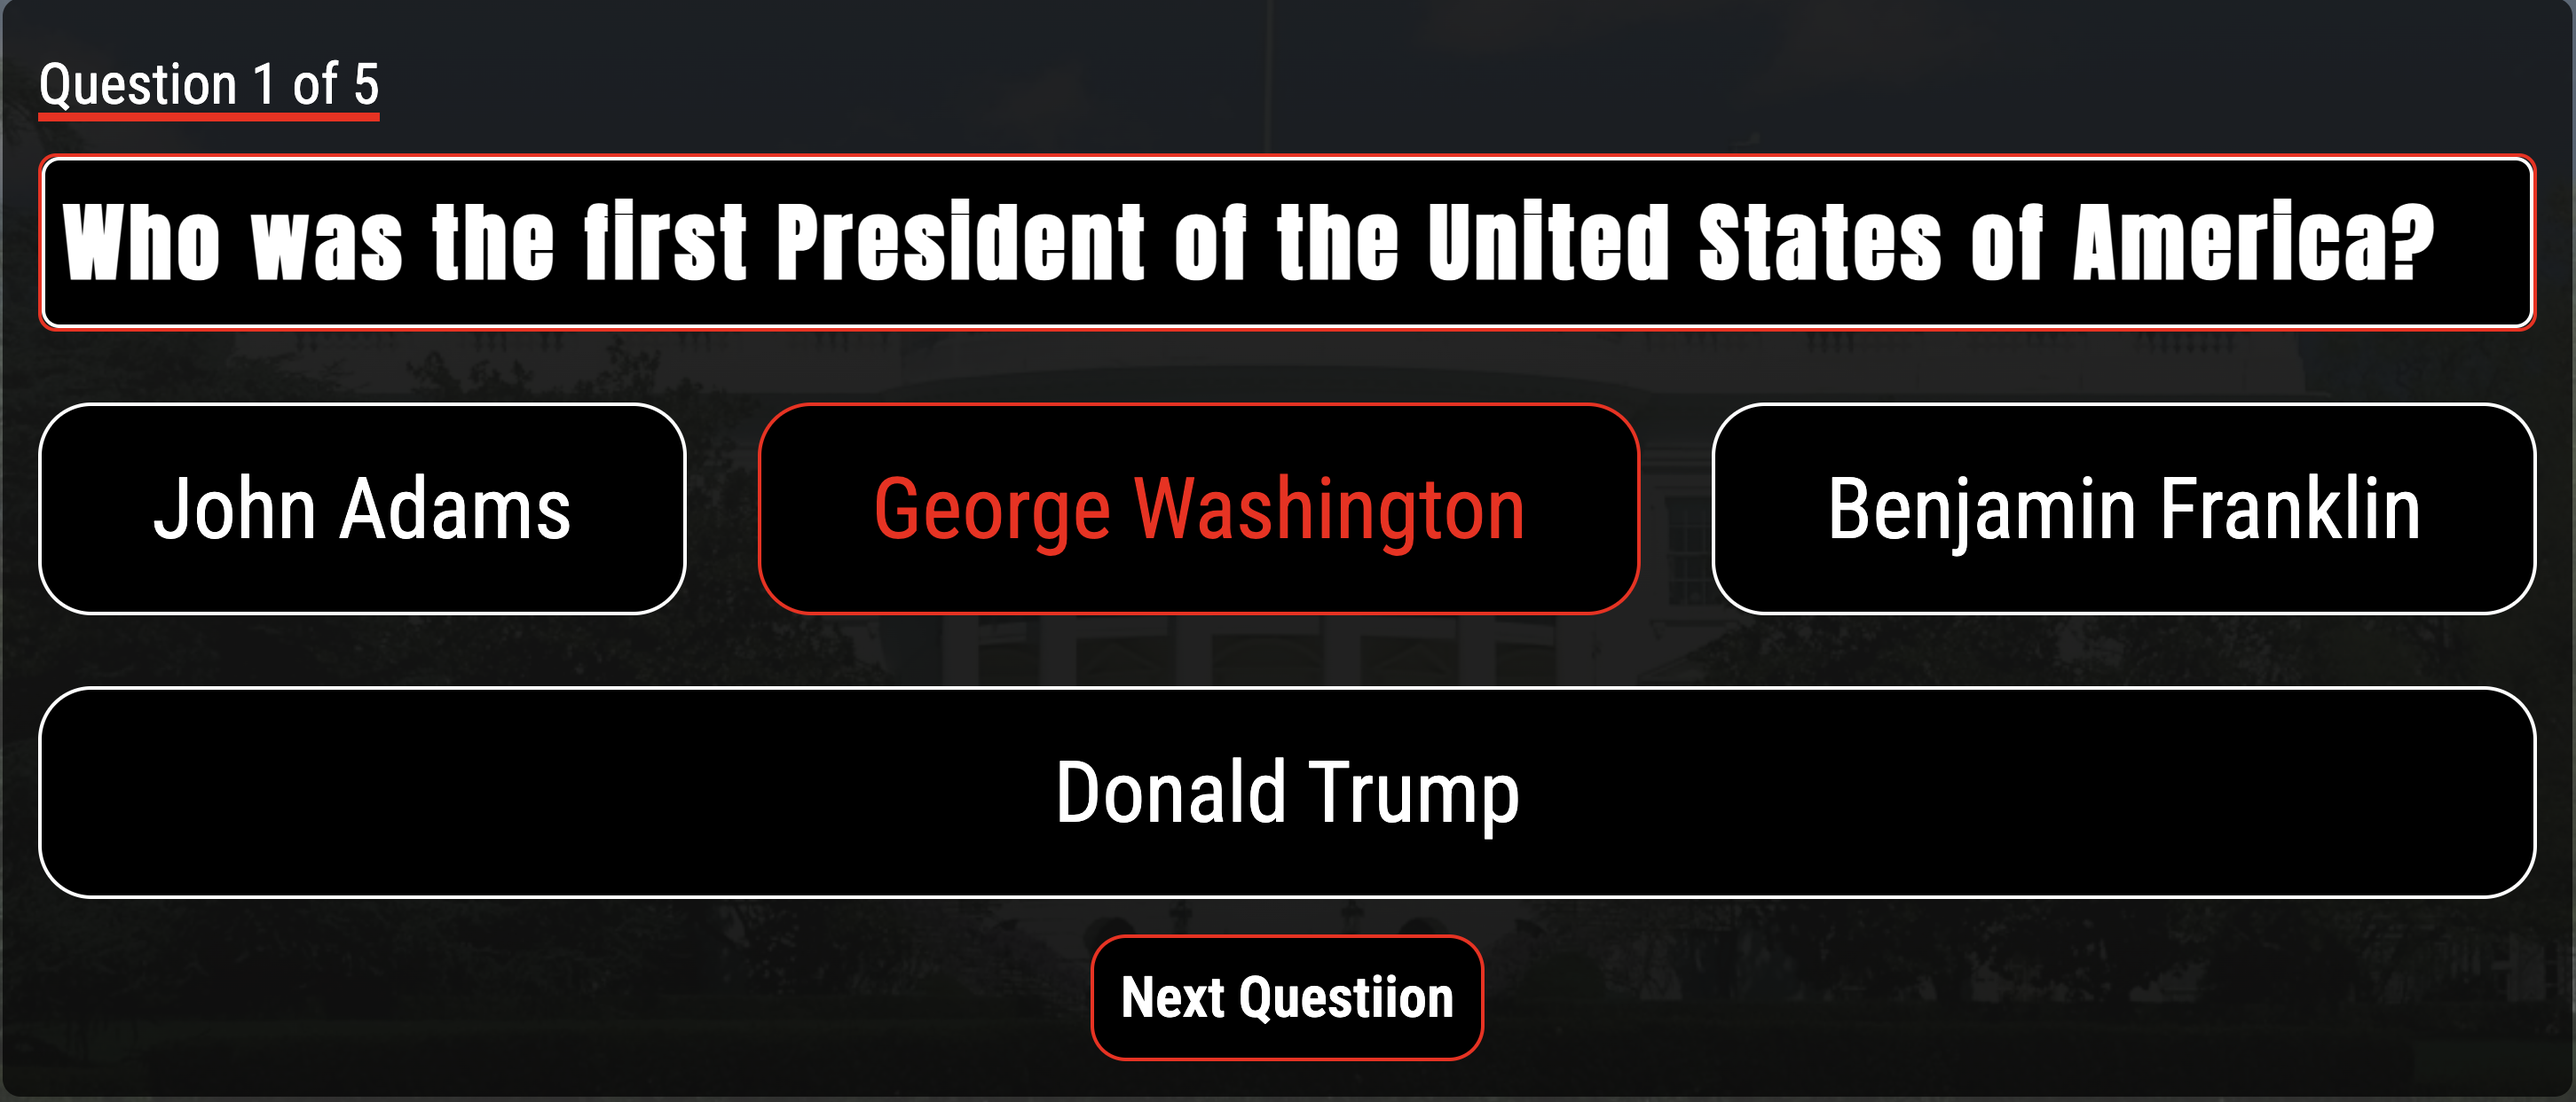
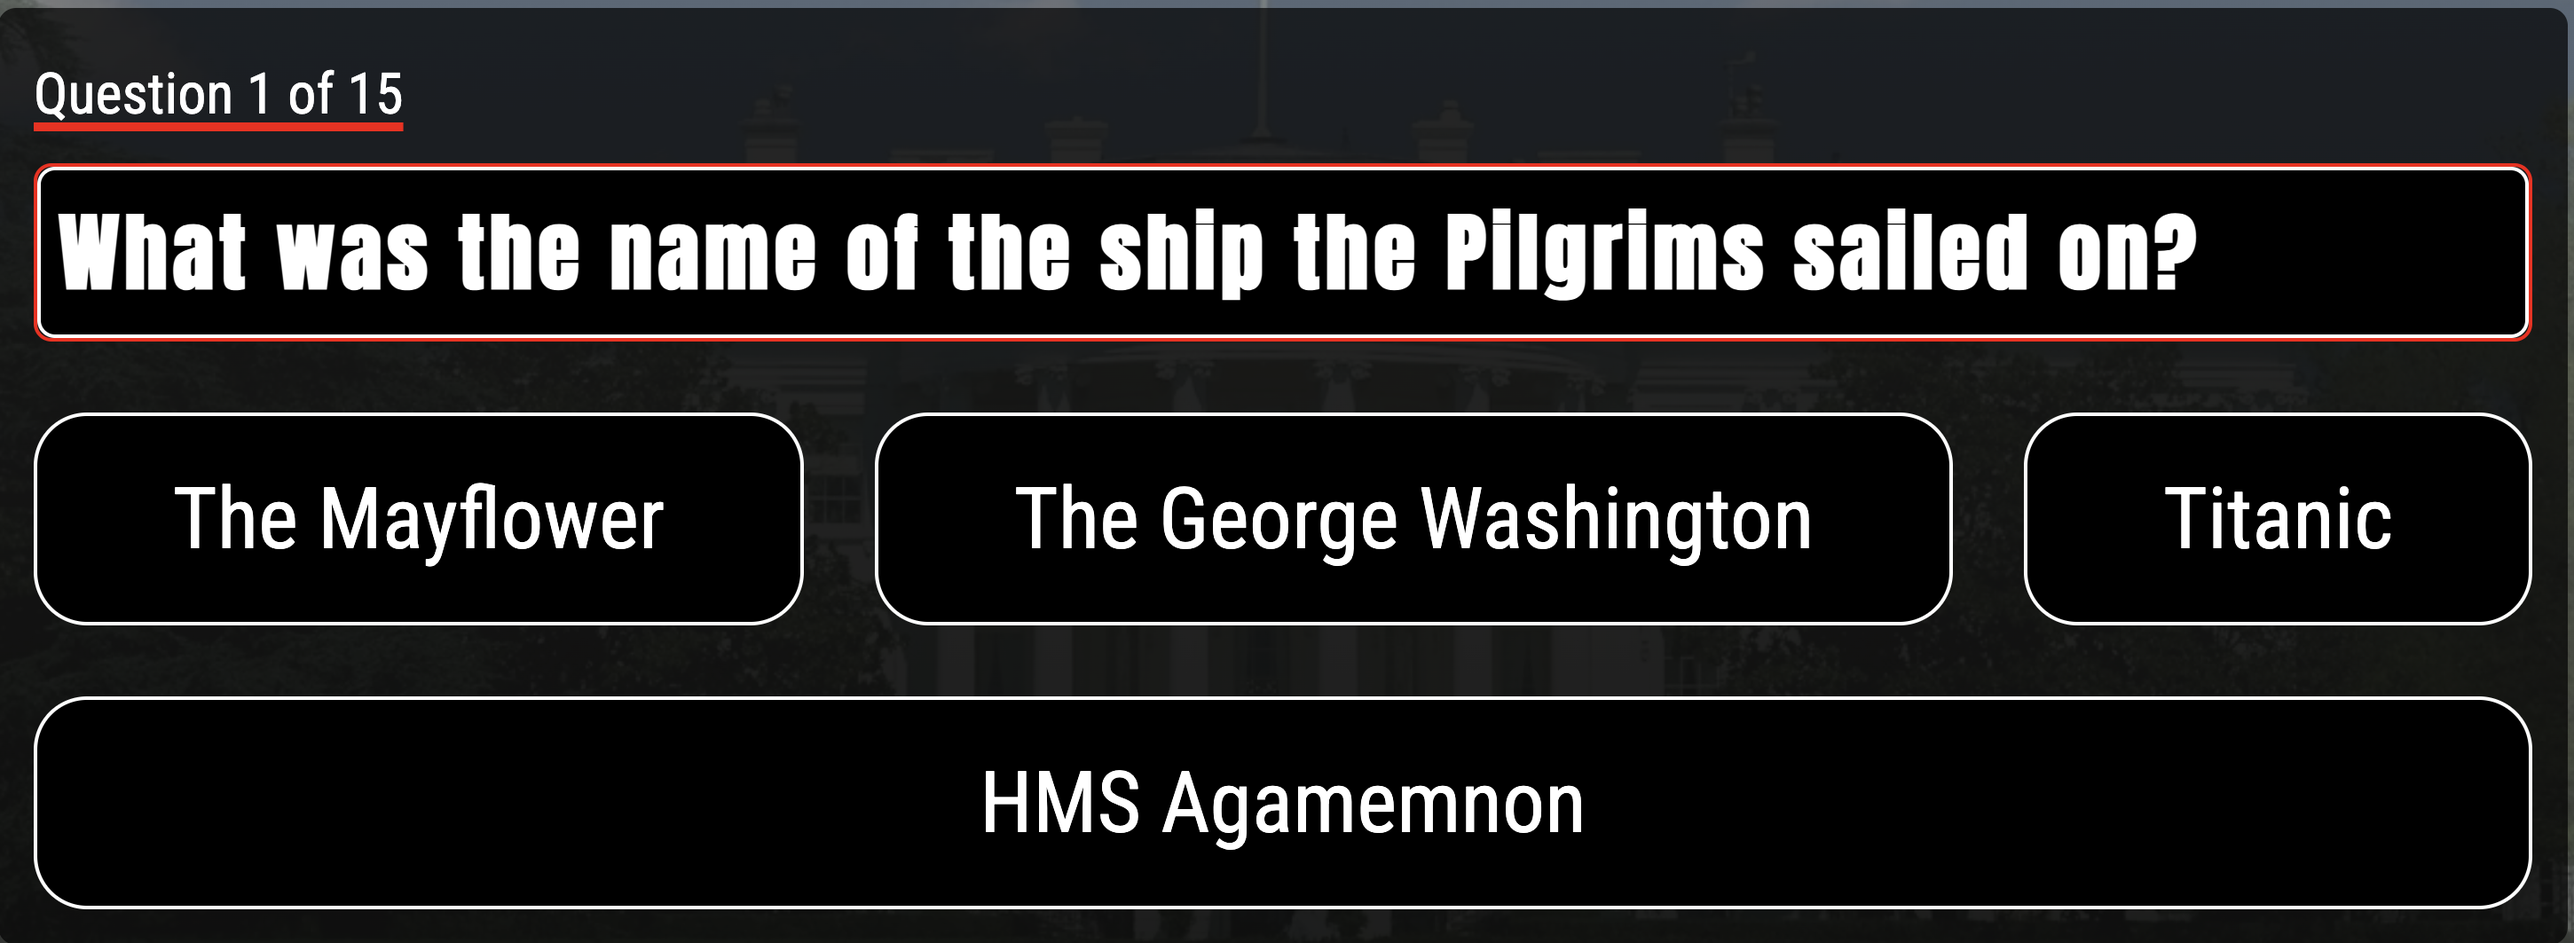
add quiz window feature to readme.md

diff --git a/README.md b/README.md
@@ -105,11 +105,38 @@ The live link can be found here - https://cameronjamesw.github.io/american-histo
 
 ### Begin Quiz Window
 
-![A screenshot of the difficulty window that is featured on the website](assets/images/features-ss/begin-quiz-ss.png)
+![A screenshot of the begin quiz window that is featured on the website](assets/images/features-ss/begin-quiz-ss.png)
 
 - Here is a screenshot of what the user can expect to see upon bypassing the form. A formerly hidden begin quiz window will be revealed to the user and this will allow the user to access the quiz.
 - Upon hovering over the begin quiz button, the background color of the box will change from white to red, this enhancing the users experience with the website as this illustrates interactivity to the user.
 - Once the user has pressed the button, the quiz window will then be displayed to the user in readiness for them to start the quiz.
+
+### Quiz Window 
+
+- **Upon Loading**
+
+![A screenshot of the quiz window that the user can expect to see upon clicking the begin wuiz button.](assets/images/features-ss/display-question-ss.png)
+
+- Here is a screenshot of what the user can expect to see upon pressing the begin quiz button. The quiz window will be revealed to the user in a neat transition opening from the top down. The user will see a quiz window containing a question number and a question followed by four answers.
+- The aesthetic of the quiz window follows the color pallet that has been set by the rest of the website. When hovering over an answer, the answer box's border color will change to red and the curser will change to a pointer, implying for the user to click the answer which they think it correct `screenshot below`. When moving the mouse cursor out of the answer box, the border color will change back to white, the default color.
+- There is an array of 15 questions for the user to answer, with the order of questions being changed each time a user takes the quiz. 
+
+![A screenshot showing an answer being hovered](assets/images/features-ss/hover-answer-ss.png)
+
+- **Selecting An Answer**
+
+![A screenshot showing an answer being selected](assets/images/features-ss/select-answer-ss.png)
+
+- When the user selects an answer they will notice that the color of the answers will change to reflect their status as correct or incorrect. Answers that are correct with adopt a green color with green border, and incorrect answers will adopt a red color with red border.
+- When the user selects an answer, the 'next question' button shall be revealed at the bottom of the quiz window, this allows the user to move to the next question `screenshot below`. The 'next question' button has a solid red border, and when hovering the color of the border will change to blue, indicating to the user that this is a button. This contrasts the current precedent set by the color pallet in order to draw attention to it within the quiz window.
+
+![A screenshot showing the next question button being hovered over](assets/images/features-ss/hover-next-question-ss.png)
+
+- **Incrementing Question Number**
+
+![A screenshot of the question number incrementing](assets/images/features-ss/increment-question-ss.png)
+
+- Located at the top of the form, the user will notice some text showing them what queston they are on. This text shows the user the index of the question that they are on.
 
 ## Manual Testing
 
